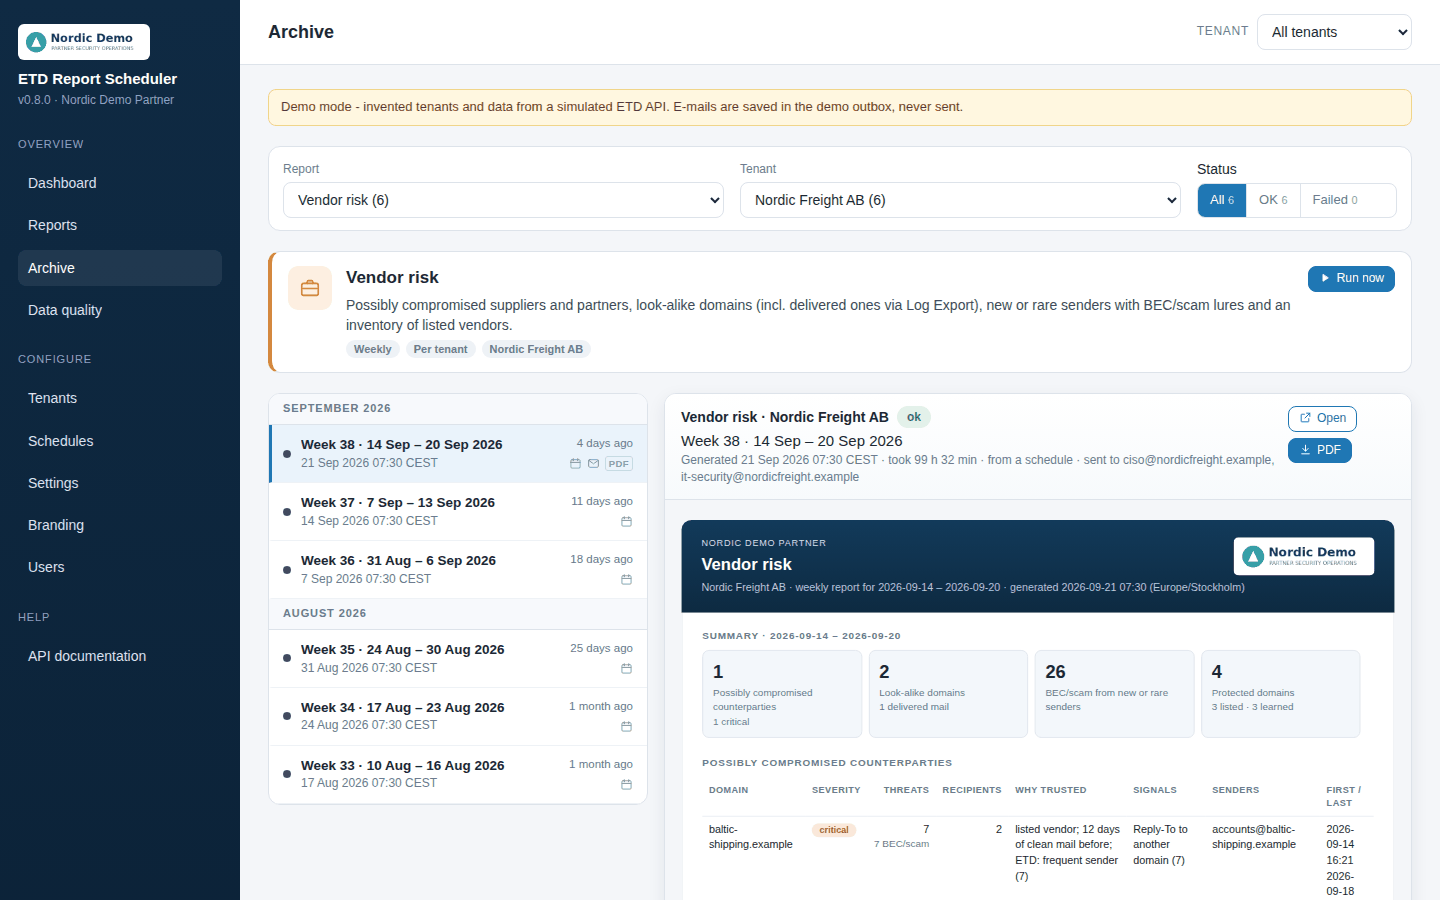
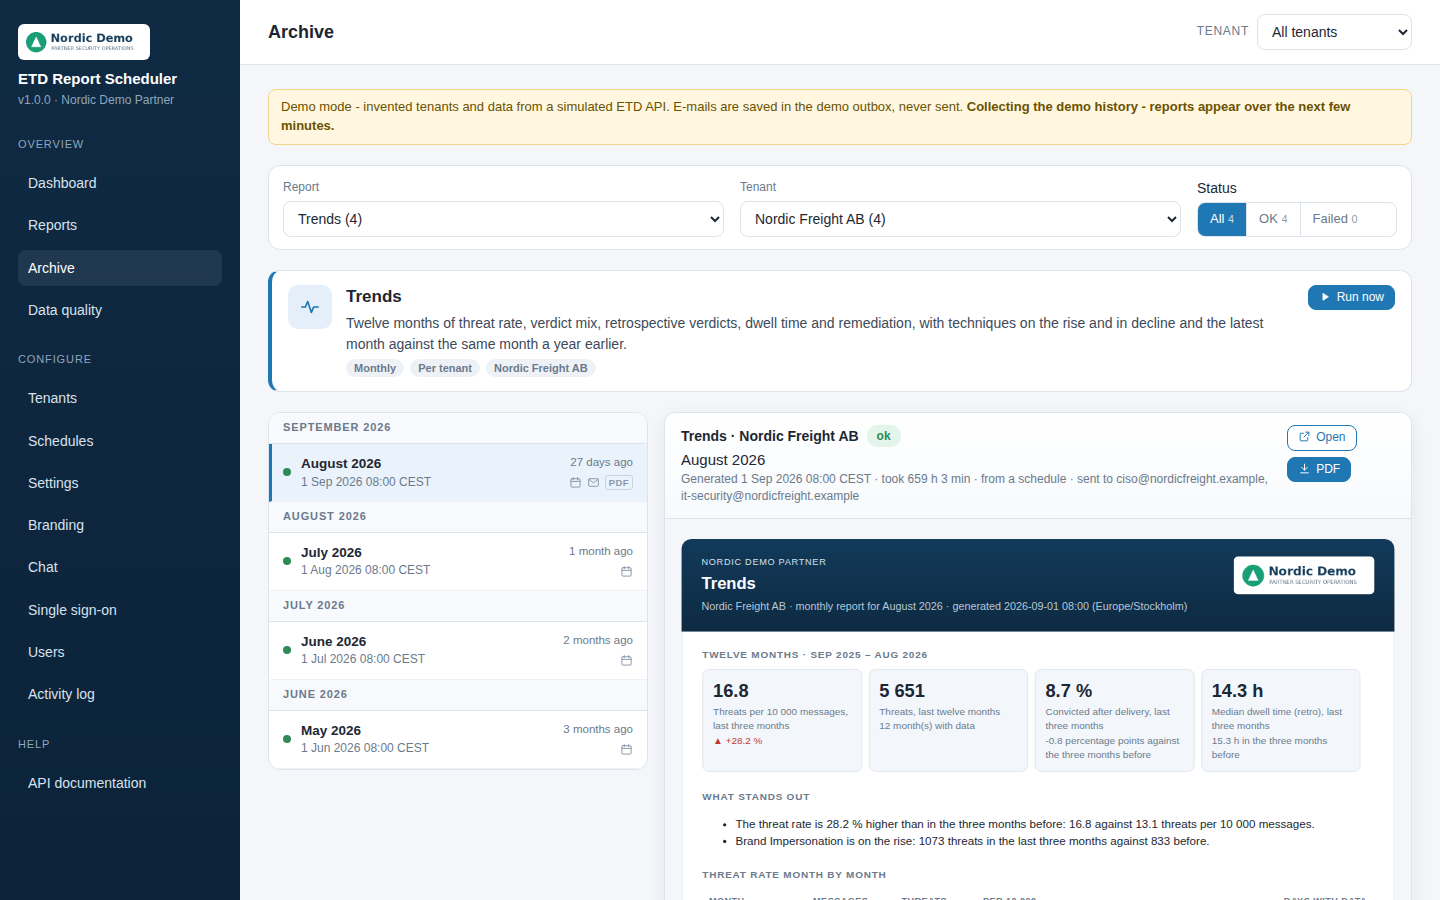
ETD Report Scheduler 1.0.0 - first stable release
- README follows the DevNet Code Exchange template: demo mode is the Related
  Sandbox, the feature list covers languages, chat delivery, single sign-on, API
  keys and the activity log, and the status, known issues and roadmap are current.
- New screenshots from demo mode (report cards, archive with a Trends report,
  Trends PDF, Data quality, Activity log); the old vendor-risk PDF image is gone.
- SECURITY.md: private vulnerability reporting and how the tool protects what it
  holds. CONTRIBUTING.md: what new reports, routes and migrations need now.
- Version 1.0.0.

diff --git a/app/__init__.py b/app/__init__.py
@@ -14,4 +14,4 @@
 # or implied.
 """ETD Report Scheduler - scheduled, multi-tenant reporting for Cisco Secure Email Threat Defense."""
 
-__version__ = "0.16.0"
+__version__ = "1.0.0"

diff --git a/README.md b/README.md
@@ -8,12 +8,15 @@ What it adds on top of the built-in ETD console:
 
 * **Scheduling and delivery** – cron-based schedules per tenant, for a group of tenants or for all tenants (including tenants added later), sent to fixed recipients and/or each customer's own contacts, optionally only when a report has findings; HTML e-mail with optional PDF attachment and an archive of every generated report.
 * **Branding** – a partner's name, logo, colours and footer on reports, PDFs and e-mails, with the e-mail sender name, Reply-To and subject prefix; one default brand and, where needed, another brand per tenant.
-* **Demo mode** – `DEMO_MODE=true` runs the tool against a simulated ETD API with four invented tenants, for demos, evaluation and screenshots; nothing contacts Cisco or a mail relay.
+* **Demo mode** – `DEMO_MODE=true` runs the tool against a simulated ETD API with four invented tenants and a year of history, for demos, evaluation and screenshots; nothing contacts Cisco or a mail relay.
 * **History and comparison** – daily statistics are kept as long as you like (retention is configurable, ETD keeps 90 days), so every report compares the period with the previous one.
 * **Reports built on message data** – threat-convicted messages are collected through the Message Search API, which enables reports ETD does not offer: compromise indicators on outgoing/internal mail, a Very Attacked People index, campaign clustering and dwell-time/exposure analysis.
 * **Posture, risk and compliance** – with ETD's Log Export and DNS: authentication posture of own domains, vendor and look-alike risk, technique and attachment trends, an audit trail kept beyond ETD's 30 days, and a quarterly posture score for management.
 * **Cross-tenant view** – ranking, spikes, collector errors and data gaps across all connected tenants.
 * **Users and roles** – global roles (admin, tenant admin, user) plus per-tenant roles (viewer, operator, manager), so a partner can give each customer's people access to exactly their tenant and nothing else.
+* **Enterprise sign-in and control** – single sign-on with Duo or any OpenID Connect provider, server-side sessions that end at sign-out, API keys for scripts and integrations, and an activity log of who did what in the tool.
+* **Report languages** – reports, PDFs and report e-mails in English or Swedish, chosen per installation, tenant or schedule.
+* **Chat delivery** – the report's headline and PDF to the SOC's Webex space, or an Adaptive Card to a Microsoft Teams channel; alerts too.
 
 Bundled reports:
 
@@ -36,9 +39,11 @@ Bundled reports:
 
 **Technology stack:** Python 3.12, FastAPI, SQLAlchemy 2 + Alembic (SQLite by default, PostgreSQL optional), APScheduler, Jinja2, WeasyPrint for PDF, httpx for the ETD API. Standalone application, delivered as a Docker image; no external services other than the ETD API and an SMTP relay.
 
-**Status:** 0.16.0, alpha. The collectors (including Log Export), scheduler, fourteen reports (in English and Swedish) and the admin UI work end to end against a fake ETD API in the test-suite (`pytest`, 210 tests) and have been smoke-tested as a running application. Validation against production ETD tenants in all five regions is the next step - please open an issue with what you find. This is community sample code, not a Cisco product, and is not supported by Cisco TAC.
+**Status:** 1.0.0. The collectors, scheduler, fourteen reports in English and Swedish, delivery by e-mail, Webex and Microsoft Teams, and the admin UI are covered by 210 automated tests - including every database migration upgraded with data in every table - and run against real ETD tenants in the Beta, Americas and Europe regions. The Australia, India and UAE regions use the addresses in Cisco's API documentation but have not been tried against a real tenant yet; please open an issue with what you find. This is community sample code, not a Cisco product, and is not supported by Cisco TAC.
 
-<!-- Add a screenshot of the dashboard here once you run it against a real tenant: ![Dashboard](docs/dashboard.png) -->
+**Try it first:** no ETD tenant needed - [demo mode](#related-sandbox) runs the whole tool against a simulated ETD API.
+
+![Report cards in demo mode](docs/images/reports.png)
 
 # Use Case
 
@@ -57,39 +62,6 @@ Challenges solved along the way: ETD's API only exposes UTC days and 32-day sear
 
 Ideas for extending the solution: "caught behind the gateway" with SMA cross-referencing, user-reported-vs-verdict, department enrichment from Entra ID for the VAP index, DKIM selector discovery, an OIDC login, webhook delivery to Teams/Slack.
 
-## Try it first: demo mode
-
-`DEMO_MODE=true` starts the tool with four invented Nordic and Baltic tenants served by a simulated ETD API - no Cisco account and no mail relay needed. The real collectors, reports, schedules and alerts run against the simulation, so what you see is what the tool does with real data:
-
-```bash
-docker run -d --name etd-demo -p 8080:8080 \
-  -e DEMO_MODE=true -e ADMIN_PASSWORD=choose-a-password \
-  -e SECRET_KEY="$(openssl rand -hex 32)" \
-  -e ENCRYPTION_KEY="$(python3 -c 'import base64, os; print(base64.urlsafe_b64encode(os.urandom(32)).decode())')" \
-  ghcr.io/magnusfrodell/etd-report-scheduler:0.16.0
-```
-
-Sign in at http://localhost:8080 as `admin`. Within a minute the demo has collected 90 days of history and filled the archive with the reports its schedules would have produced. Each tenant has a story:
-
-* **Nordic Freight AB** – a supplier's real accounts ask for new bank details, a look-alike of the company's own domain has been delivering mail, and a weekly QR-code campaign.
-* **Baltic Pharma AS** – attacks aimed at the management team and retrospective verdicts that are cleaned up late, or never.
-* **Helios Energy Oy** – a hijacked mailbox sending phishing to customers, and `p=none` in DMARC.
-* **Aurora Retail ApS** – Log Export fails, as seen on the Data quality page, and no report recipients are set.
-
-E-mails are saved as `.eml` files in `/data/demo-outbox` instead of being sent. Demo mode only seeds an empty database and routes every ETD call to the simulator, so give it its own data volume rather than pointing it at real data.
-
-![Report cards](docs/images/reports.png)
-
-![Archive with a branded vendor-risk report](docs/images/archive.png)
-
-![Data quality](docs/images/data-quality.png)
-
-![Vendor risk as PDF](docs/images/vendor-risk-pdf.png)
-
-The demo holds a year of history - more than the 90 days ETD itself keeps - so the **Trends** reports have something to show.
-
-To see a Swedish report, open a demo tenant's reporting profile on the Tenants page, set *Report language* to Svenska and press **Run now** on any report card.
-
 ## Installation
 
 ### Option A: Docker (recommended)
@@ -99,7 +71,7 @@ Prerequisites: Docker 24+ with Compose, network access from the container to `ap
 A pre-built multi-arch image (amd64/arm64) is published for every release tag:
 
 ```bash
-docker pull ghcr.io/magnusfrodell/etd-report-scheduler:0.16.0
+docker pull ghcr.io/magnusfrodell/etd-report-scheduler:1.0.0
 ```
 
 To use it, set `image:` instead of `build:` in `docker-compose.yml` (the line is there, commented out). To build yourself instead:
@@ -282,6 +254,37 @@ curl -H "Authorization: Bearer $ETD_KEY" "http://localhost:8080/api/activity?sin
 
 Generated files are stored under `/data/reports/<tenant>/<report>/<timestamp>-run<id>.html|pdf` in the volume; the run id keeps every run's files distinct.
 
+## Related Sandbox
+
+There is no DevNet Sandbox for Secure Email Threat Defense; demo mode takes its place. `DEMO_MODE=true` starts the tool with four invented Nordic and Baltic tenants served by a simulated ETD API - no Cisco account and no mail relay needed. The real collectors, reports, schedules and alerts run against the simulation, so what you see is what the tool does with real data:
+
+```bash
+docker run -d --name etd-demo -p 8080:8080 \
+  -e DEMO_MODE=true -e ADMIN_PASSWORD=choose-a-password \
+  -e SECRET_KEY="$(openssl rand -hex 32)" \
+  -e ENCRYPTION_KEY="$(python3 -c 'import base64, os; print(base64.urlsafe_b64encode(os.urandom(32)).decode())')" \
+  ghcr.io/magnusfrodell/etd-report-scheduler:1.0.0
+```
+
+Sign in at http://localhost:8080 as `admin`. Within a minute the demo has a year of history - more than the 90 days ETD itself keeps - and an archive filled with the reports its schedules would have produced, including twelve-month trends. Each tenant has a story:
+
+* **Nordic Freight AB** – a supplier's real accounts ask for new bank details, a look-alike of the company's own domain has been delivering mail, and a weekly QR-code campaign.
+* **Baltic Pharma AS** – attacks aimed at the management team and retrospective verdicts that are cleaned up late, or never.
+* **Helios Energy Oy** – a hijacked mailbox sending phishing to customers, and `p=none` in DMARC.
+* **Aurora Retail ApS** – Log Export fails, as seen on the Data quality page, and no report recipients are set.
+
+E-mails are saved as `.eml` files in `/data/demo-outbox` instead of being sent. Demo mode only seeds an empty database and routes every ETD call to the simulator, so give it its own data volume rather than pointing it at real data.
+
+To see a Swedish report, open a demo tenant's reporting profile on the Tenants page, set *Report language* to Svenska and press **Run now** on any report card.
+
+![The archive, with a branded Trends report in the preview](docs/images/archive.png)
+
+![Trends as PDF: twelve months, what stands out, month by month](docs/images/trends-pdf.png)
+
+![Data quality: per tenant and data stream, with the demo's broken Log Export](docs/images/data-quality.png)
+
+![Activity log: who did what, with the outcome](docs/images/activity.png)
+
 ## Additional paragraphs
 
 ### Trends
@@ -331,7 +334,7 @@ People can sign in with **Duo Single Sign-On** - or Entra ID, Okta or any OpenID
 `.github/workflows/ci.yml` runs ruff, the test-suite and an Alembic consistency check on every push and pull request. `.github/workflows/docker.yml` builds and publishes the container image to GitHub Container Registry when a `v*` tag is pushed:
 
 ```bash
-git tag v0.16.0 && git push origin v0.16.0
+git tag v1.0.0 && git push origin v1.0.0
 ```
 
 ### Architecture
@@ -392,29 +395,32 @@ Tenant isolation is enforced in one place: every query helper in `app/reports/re
 
 ## Known issues
 
-* Not yet validated against production ETD tenants; the fake API in `tests/etd_mock.py` follows the DevNet documentation and Cisco's own Sentinel connector.
+* The Australia, India and UAE regions use the API addresses from Cisco's documentation but have not been tried against a real tenant yet.
 * The Reporting API's top-sender list contains external senders only; internal threat senders come from the compromise-indicators report instead.
 * Retrospective verdicts on messages older than the rescan window (7 days by default) are not picked up; increase `convictions_rescan_days` in Settings if you need more.
 * Backfill covers threat verdicts only (the stored verdict set). Backfilling spam and graymail for 90 days would run into the daily quota on any sizeable tenant, so those are collected from the day they are enabled.
-* Local accounts only (no OIDC/SAML yet) - contributions welcome. Put the UI behind your reverse proxy's authentication if your policy requires SSO.
+* History starts when a tenant is added, with the 90 days ETD provides; trend comparisons appear after six months with data.
+* Microsoft Teams messages carry the report's headline and a link to the archive, not the PDF (Workflows webhooks cannot carry a file); Webex messages carry the PDF.
+* Signing out ends the session in this tool; the single sign-on provider's own session is left alone. Some providers - possibly Duo - only accept an `https://` redirect URL, so the tool may need to sit behind HTTPS for single sign-on.
+* Run one instance per database: the scheduler runs inside the application, so two containers on the same data would send every report twice.
 * PDF rendering requires WeasyPrint's system libraries (present in the Docker image). Without them, reports are sent as HTML.
 * ETD's audit log identifies users by UUID only; name them in the tenant's reporting profile to get readable audit reports.
-* Look-alike detection, text-only "callback" lures and the audit event grouping are heuristics built on ETD's documented technique names and log samples; verify before blocking a domain. QR detection relies on the "QR code" technique and QR flags in `urlMetadata`, whose exact field names are not documented yet.
+* Look-alike detection, text-only "callback" lures and the audit event grouping are heuristics built on ETD's documented technique names and log samples; verify before blocking a domain. QR detection relies on the "QR code" technique and QR-origin URLs.
 * DNS posture is read from the container's resolver (cached for a day); DKIM is not checked because selectors cannot be discovered from DNS.
 
 Please use [GitHub Issues](../../issues) for bugs and feature requests; include the ETD region, the report key and the relevant lines from the container log (`docker compose logs`).
 
 ## Getting help
 
-Open an issue in this repository. For questions about the ETD API itself, see the [DevNet documentation](https://developer.cisco.com/docs/message-search-api/) and the [ETD user guide](https://docs.cmd.cisco.com/en/Content/secure-email-threat-defense-user-guide/homeUG.htm). Cisco TAC does not support this code.
+Open an issue in this repository. Report security problems privately as described in [SECURITY](./SECURITY.md), not in an issue. For questions about the ETD API itself, see the [DevNet documentation](https://developer.cisco.com/docs/message-search-api/) and the [ETD user guide](https://docs.cmd.cisco.com/en/Content/secure-email-threat-defense-user-guide/homeUG.htm). Cisco TAC does not support this code.
 
 ## Getting involved
 
 Contributions are welcome, particularly:
 
-* Reports from the roadmap (vendor risk, gateway cross-referencing, allow-list risk, user-reported loop, audit compliance and authentication posture via Log Export).
-* Feedback from real tenants: field names that differ from the documentation, rate-limit behaviour, regional quirks.
-* OIDC login and webhook delivery.
+* Feedback from real tenants, especially in the Australia, India and UAE regions: field names that differ from the documentation, rate-limit behaviour, regional quirks.
+* Report languages beyond English and Swedish - Danish, Norwegian and Finnish are the obvious next ones; see [docs/TRANSLATING.md](docs/TRANSLATING.md).
+* Ideas on the roadmap: findings as Cisco XDR incidents, DMARC aggregate (`rua`) reports, and report PDFs in Teams through SharePoint.
 
 See [CONTRIBUTING](./CONTRIBUTING.md) for the development setup, how to add a report and how to create schema migrations.
 

diff --git a/CONTRIBUTING.md b/CONTRIBUTING.md
@@ -25,6 +25,15 @@ uvicorn app.main:app --reload --port 8080
    default cron, subject line).
 4. Add a test in `tests/test_reports.py` that builds it for two tenants and proves
    the numbers do not leak between them.
+5. Make every text a reader sees translatable: `{{ _("...") }}` in the template,
+   `tr = ctx.tr` and `tr("...")` in the code, and `N_("...")` for values the logic
+   also uses as keys (translate those where they are shown). Put numbers in
+   placeholders, never in the text. Then refresh the catalog and add the Swedish
+   translations - see [docs/TRANSLATING.md](docs/TRANSLATING.md).
+6. Nothing else to write: `tests/test_i18n.py` renders every registered report in
+   every language and fails if a text lacks a translation, if a translated report
+   shows a different number than the English one, or if anything runs past the
+   edge of the PDF page.
 
 ## Schema changes
 
@@ -35,12 +44,23 @@ DATABASE_URL=sqlite:///./data/etd.db alembic revision --autogenerate -m "describ
 alembic check   # must report "No new upgrade operations detected."
 ```
 
-Migrations run automatically when the container starts.
+Migrations run automatically when the container starts. A new column that may not be
+empty needs a `server_default`: `tests/test_ready_for_1_0.py` runs every migration on
+a database with a row in every table, so a migration that only works on an empty
+database fails the build rather than a real installation.
+
+## New pages and API endpoints
+
+Every route that changes something needs a name in `ACTIONS` in `app/activity.py`,
+so the activity log records it; a test fails for a route without one. If the handler
+knows something the request does not - the name of what it created, which values
+changed - add it with `activity.note(...)`. Never note a password, token or address
+that works as a secret.
 
 ## Pull requests
 
 * Keep the Cisco Sample Code License header on every source file.
-* Run `ruff check .` and `pytest` before opening the PR.
+* Run `ruff check .`, `pytest` and `git diff --check` before opening the PR.
 * Describe the ETD API behaviour you relied on and link the DevNet page.
 
 ## Dependencies

diff --git a/SECURITY.md b/SECURITY.md
@@ -1,0 +1,20 @@
+# Security
+
+ETD Report Scheduler holds API credentials for your Email Threat Defense tenants and the reports built from them, so security problems matter.
+
+## Reporting a vulnerability
+
+Please do not open a public issue. Report it privately through **Security › Report a vulnerability** on this repository's GitHub page, with what you found, how to reproduce it and the version (`/api/health` shows it). You will get an answer within a week, and a fix in a new release as soon as it is ready; you are credited in the release notes unless you prefer otherwise.
+
+This is community sample code, not a Cisco product: vulnerabilities in the tool itself go here, not to Cisco PSIRT. Vulnerabilities in Cisco Secure Email Threat Defense or its API go to [Cisco PSIRT](https://sec.cloudapps.cisco.com/security/center/resources/security_vulnerability_policy.html).
+
+## Supported versions
+
+The latest 1.x release receives security fixes. Upgrade by pulling the new image; database migrations run on start-up.
+
+## How the tool protects what it holds
+
+* Tenant credentials, the SMTP password, the Webex bot token, the single sign-on client secret and chat channel addresses are encrypted in the database (`ENCRYPTION_KEY`); passwords are hashed with scrypt, API keys and session tokens are stored as hashes only.
+* Sessions live on the server and end at sign-out, after inactivity, and when a password is changed or an account is disabled.
+* Cross-site state changes are refused, a strict Content Security Policy applies, and archived reports are shown sandboxed.
+* The activity log records every change, sign-in and opened report - without passwords, tokens or webhook addresses.

diff --git a/CHANGELOG.md b/CHANGELOG.md
@@ -3,6 +3,19 @@
 Database migrations run automatically at start-up. Every version runs as a single container
 with its state in the `/data` volume.
 
+## 1.0.0 - First stable release
+
+ETD Report Scheduler is ready for use: fourteen reports in English and Swedish, delivered by e-mail, Webex and Microsoft Teams, with single sign-on, API keys, an activity log, and every database migration tested on an installation with data.
+
+### Changed
+- **README follows the DevNet Code Exchange template** - demo mode is the *Related Sandbox* (there is no DevNet Sandbox for ETD), the feature list covers languages, chat delivery, single sign-on, API keys and the activity log, and the known issues and roadmap are current.
+- **New screenshots** from demo mode: report cards, the archive with a Trends report, a Trends PDF, Data quality and the Activity log.
+- **SECURITY.md** - how to report a vulnerability privately, and how the tool protects what it holds.
+- **CONTRIBUTING.md** - what a new report, route or migration needs now: translatable texts, activity log names, and defaults that survive the upgrade test.
+
+### Upgrade notes
+- No migration. From any 0.x release, pull the new image; the migrations since that release run on start-up.
+
 ## 0.16.0 - Ready for 1.0: upgrades, scale and reminders
 
 ### Added

diff --git a/docs/README.md b/docs/README.md
@@ -1,4 +1,6 @@
 # docs
 
-Place screenshots referenced from the main README here (for example `dashboard.png`).
-Architecture and API notes live in the main [README](../README.md); development notes in [CONTRIBUTING](../CONTRIBUTING.md).
+* `images/` - the screenshots in the main [README](../README.md), taken in demo mode: `reports.png`, `archive.png`, `trends-pdf.png`, `data-quality.png`, `activity.png`.
+* [TRANSLATING.md](TRANSLATING.md) - how report languages work, and how to add one.
+
+Architecture and API notes live in the main README; development notes in [CONTRIBUTING](../CONTRIBUTING.md); security in [SECURITY](../SECURITY.md).
